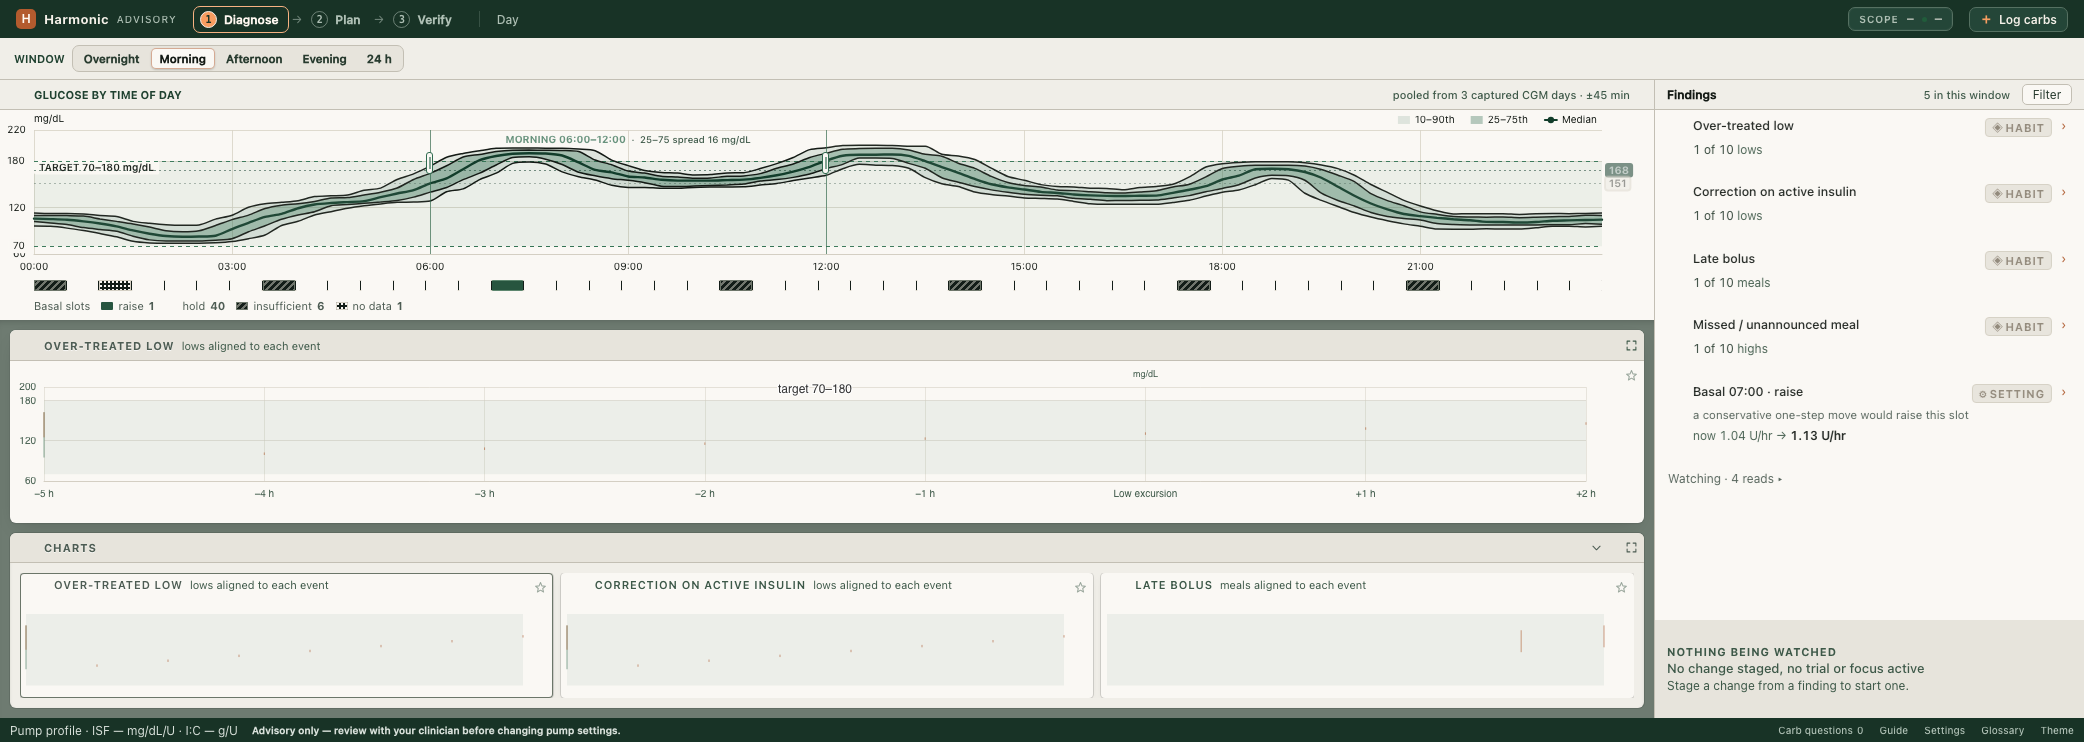
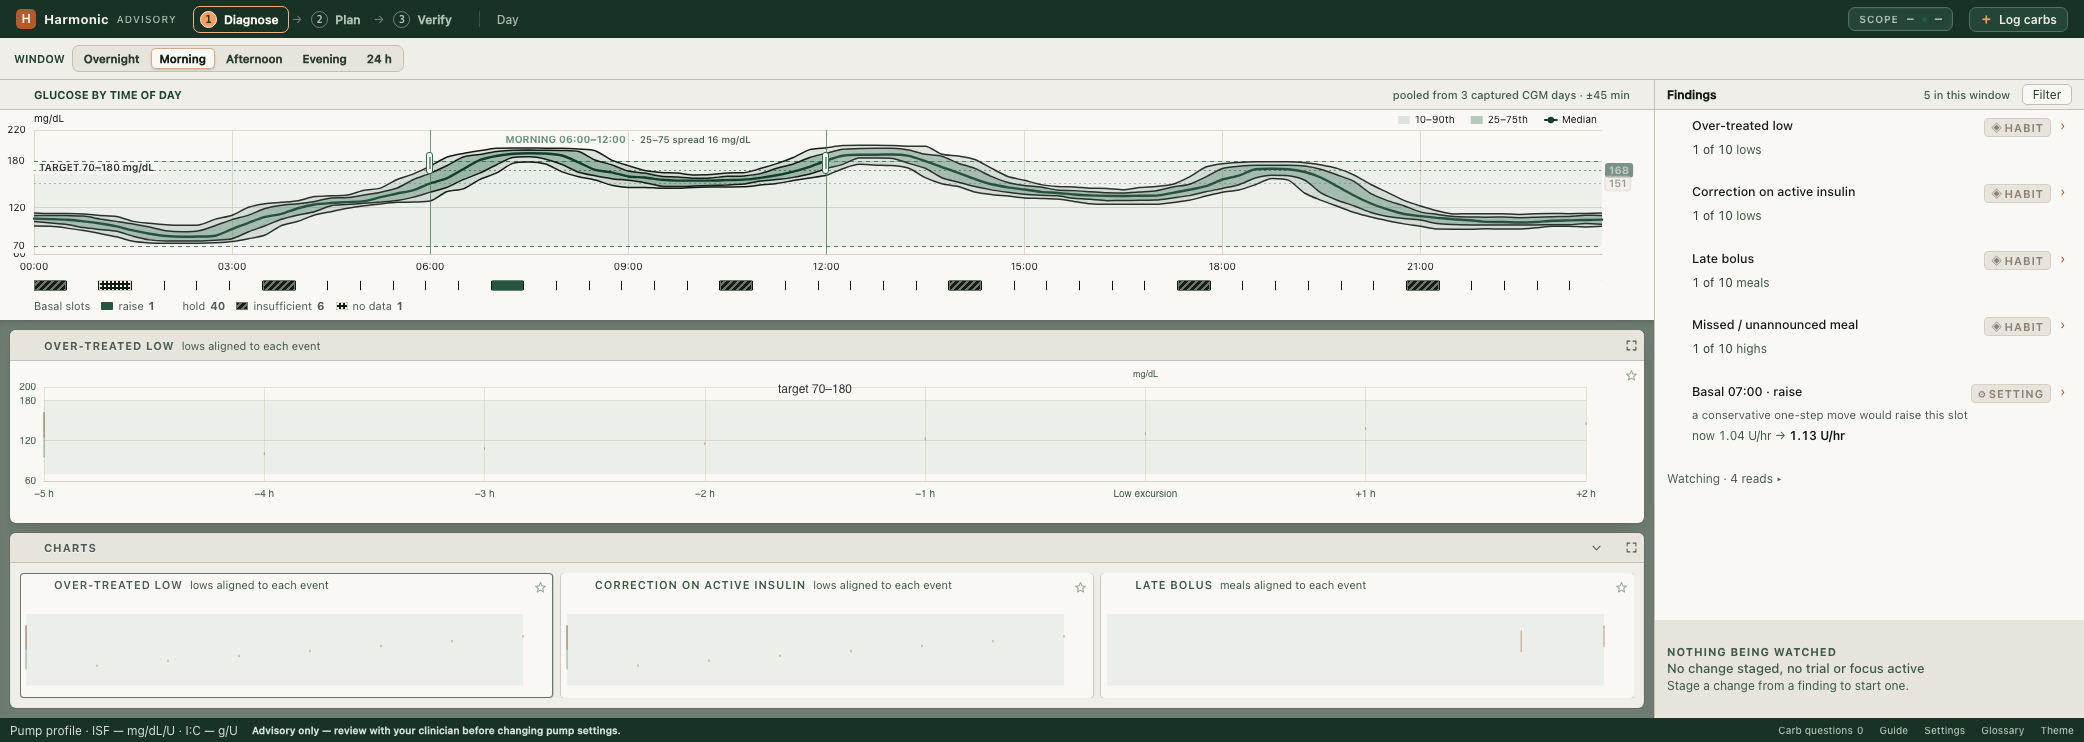
Refresh final Dark contrast evidence

diff --git a/openspec/changes/dark-retheme-diagnose-workstation/evidence/README.md b/openspec/changes/dark-retheme-diagnose-workstation/evidence/README.md
@@ -11,10 +11,10 @@ Base commit: `9564cd378dabb640a3f814115d9ab0131012910c` (detached,
 `Triage dark Diagnose retheme`) in `/Users/connor/worktrees/harmonic/255-base`.
 All `dark/base` and `light/base` PNGs were recaptured from this checkout.
 
-Revision capture source: `d60c657f32b9769343f47d7a8defac704a52676d` in
-`/Users/connor/worktrees/harmonic/255` (`Restore Dark glucose boundary
-contrast`). The following evidence-record-only commit changes no rendered
-source; it records the captures produced from that reviewed state.
+Revision capture source: `b47c2aeb2156098aaad5a4919877726242ed331c` in
+`/Users/connor/worktrees/harmonic/255` (`Keep glucose scrim repair Dark-only`).
+The following evidence-record-only commit changes no rendered source; it
+records the captures produced from that reviewed state.
 
 ## Replayable commands
 
